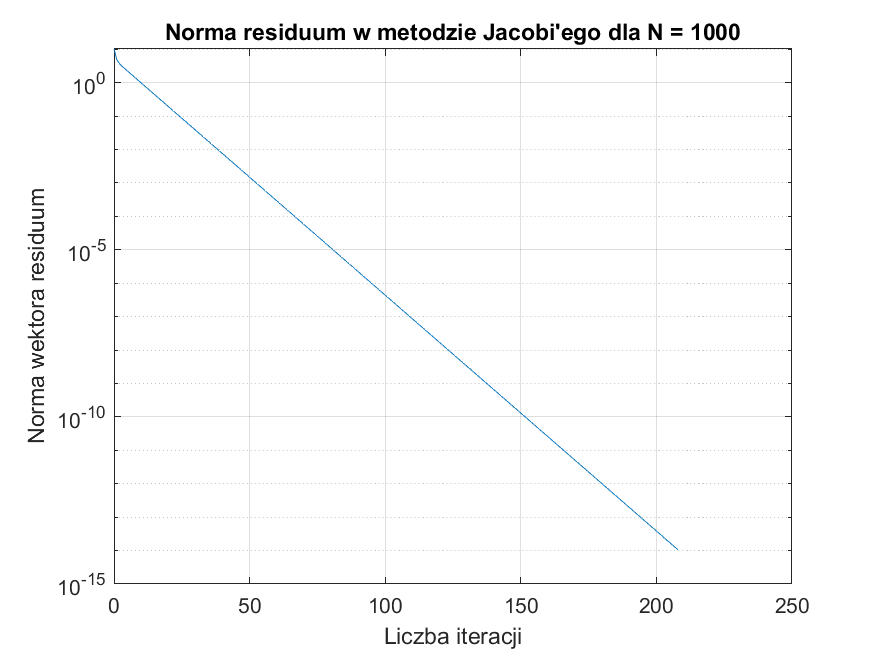
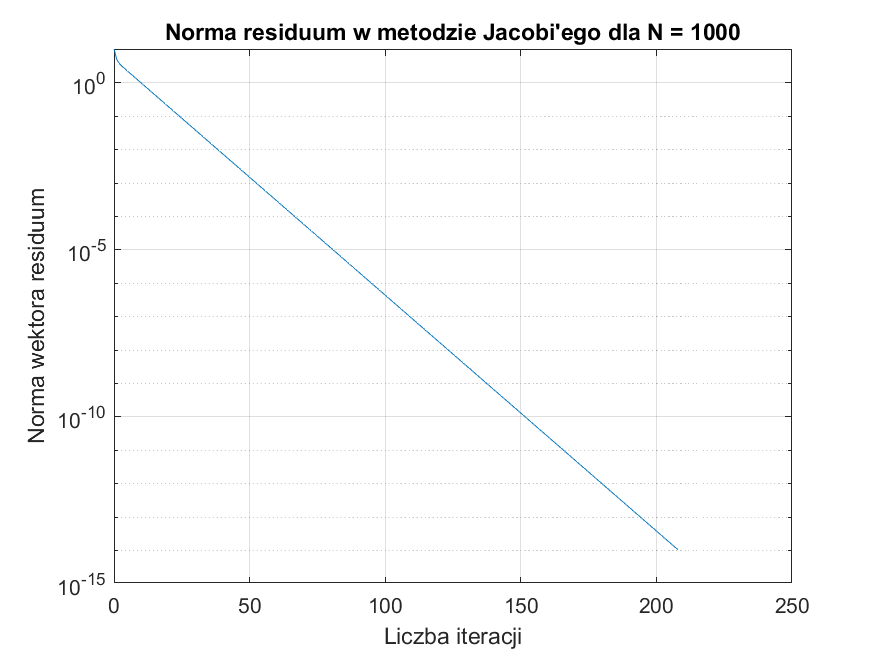
- naprawiona norma 2 - optymalizacja uzyskania DLU (macierz invD jako iloczyn skalarny) - refakturyzacja

diff --git a/Projekt2/Jacobi.py b/Projekt2/Jacobi.py
@@ -19,11 +19,15 @@ def jacobi(matrix,vector, epsilon):
     # może lepiej zrobićwykładową implementacje ?
     # tam nie ma minusów na końcu
 
-    D_1 = inverseDiagonalMatrix(D)
+    invD = inverseDiagonalMatrix(D)
 
-    L_plus_U = matrixAddition(L,U)
-    D_1_b = matrixMultiplication(D_1, vector)
-    DLU = matrixMultiplication(D_1, L_plus_U) # bardzo kosztowne ale tylko raz
+    LU = matrixAddition(L,U)
+    invDb = matrixMultiplication(invD, vector)
+    #DLU = matrixMultiplication(D_1, L_plus_U) # bardzo kosztowne ale tylko raz
+
+    DLU = scalarMatrixMultiplication(LU, invD[0][0])
+    # D_1 możemy przedstwaić jako macierz jednostkową pomnożoną przez skalar
+
     DLU = scalarMatrixMultiplication(DLU, -1) # mnożymy razy -1
 
 
@@ -34,7 +38,7 @@ def jacobi(matrix,vector, epsilon):
 
     while calculateResiduumNorm(matrix, xk, vector) > epsilon:
         first = matrixMultiplication(DLU, xk)
-        xk = matrixAddition(first, D_1_b)
+        xk = matrixAddition(first, invDb)
 
 
 

diff --git a/Projekt2/Functions.py b/Projekt2/Functions.py
@@ -157,9 +157,9 @@ def calculateResiduumNorm(matrix, aprox, b):
     norm = 0
     for i in range(len(residuum)):
         for j in range(len(residuum[0])):
-            norm += math.sqrt(residuum[i][j]**2)
+            norm += residuum[i][j]**2
 
-    return norm
+    return math.sqrt(norm)
 
 
 def printMatrix(matrix):
